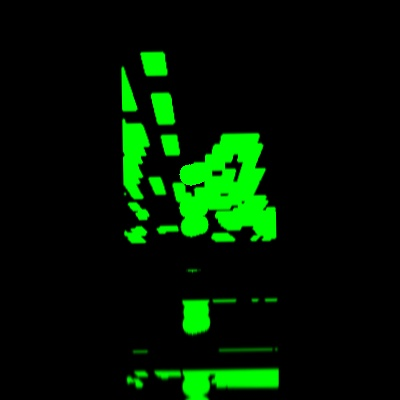
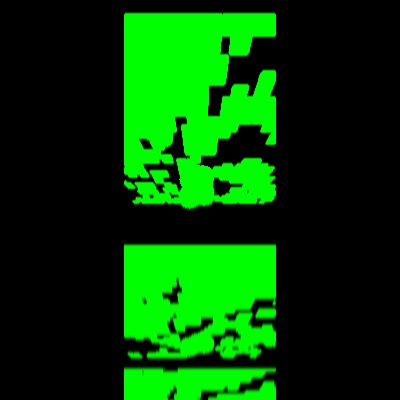
almost driveable

Changed region(s): [[0.3, 0.03, 0.72, 1.0]]

diff --git a/raspberry/code/PathPlanner.py b/raspberry/code/PathPlanner.py
@@ -114,8 +114,10 @@ class PathPlanner:
                     self.state = self.STATE_WAITFORDESTINATION
                 else:
                     heading = ff.planRoute(planMap)
+                    self.ecu.driveByHeading((int)(heading * 180.0 / np.pi), 30)
                 self.available = False
                 #print(heading * 180.0 / np.pi)
+
 
     def insertLidarData(self):
         available, data = self.lidar.getScan()

diff --git a/raspberry/code/ControlUnit.py b/raspberry/code/ControlUnit.py
@@ -130,6 +130,7 @@ class ControlUnit:
         self.commandQueue.join()
 
     def driveByHeading(self, heading, avgSpeed):
+        print(heading, avgSpeed)
         self.commandQueue.put((REG_STATE, STATE_HEADINGDRIVE))
         self.commandQueue.put((REG_AVG_SPEED, np.int16(avgSpeed)))
         self.commandQueue.put((REG_DEST_HEADING, np.int16(heading)))
